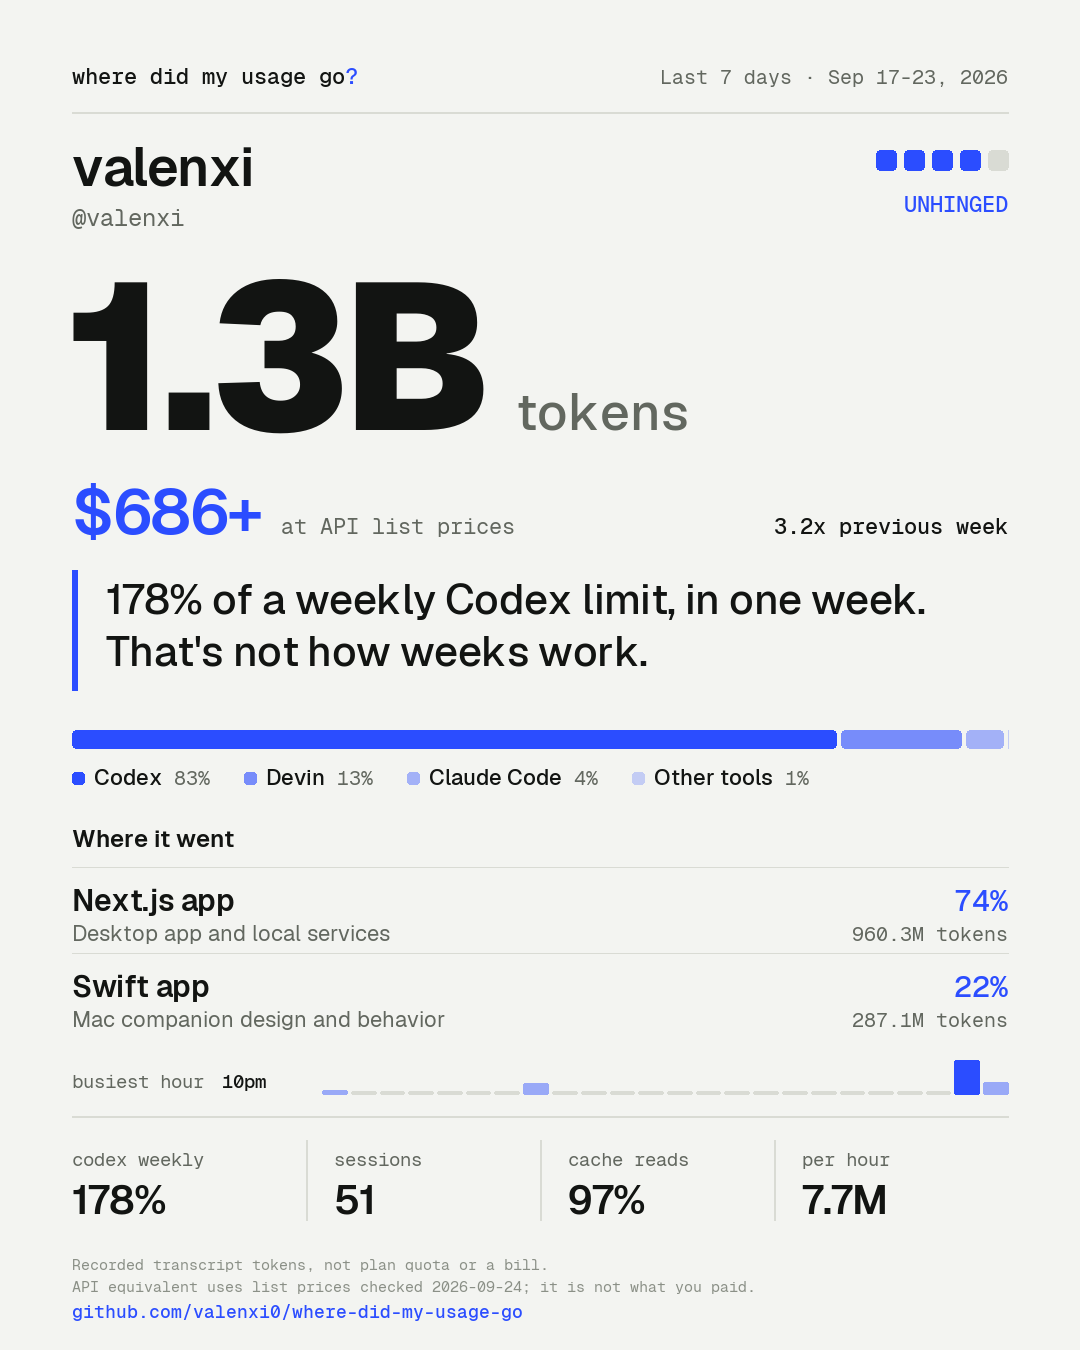
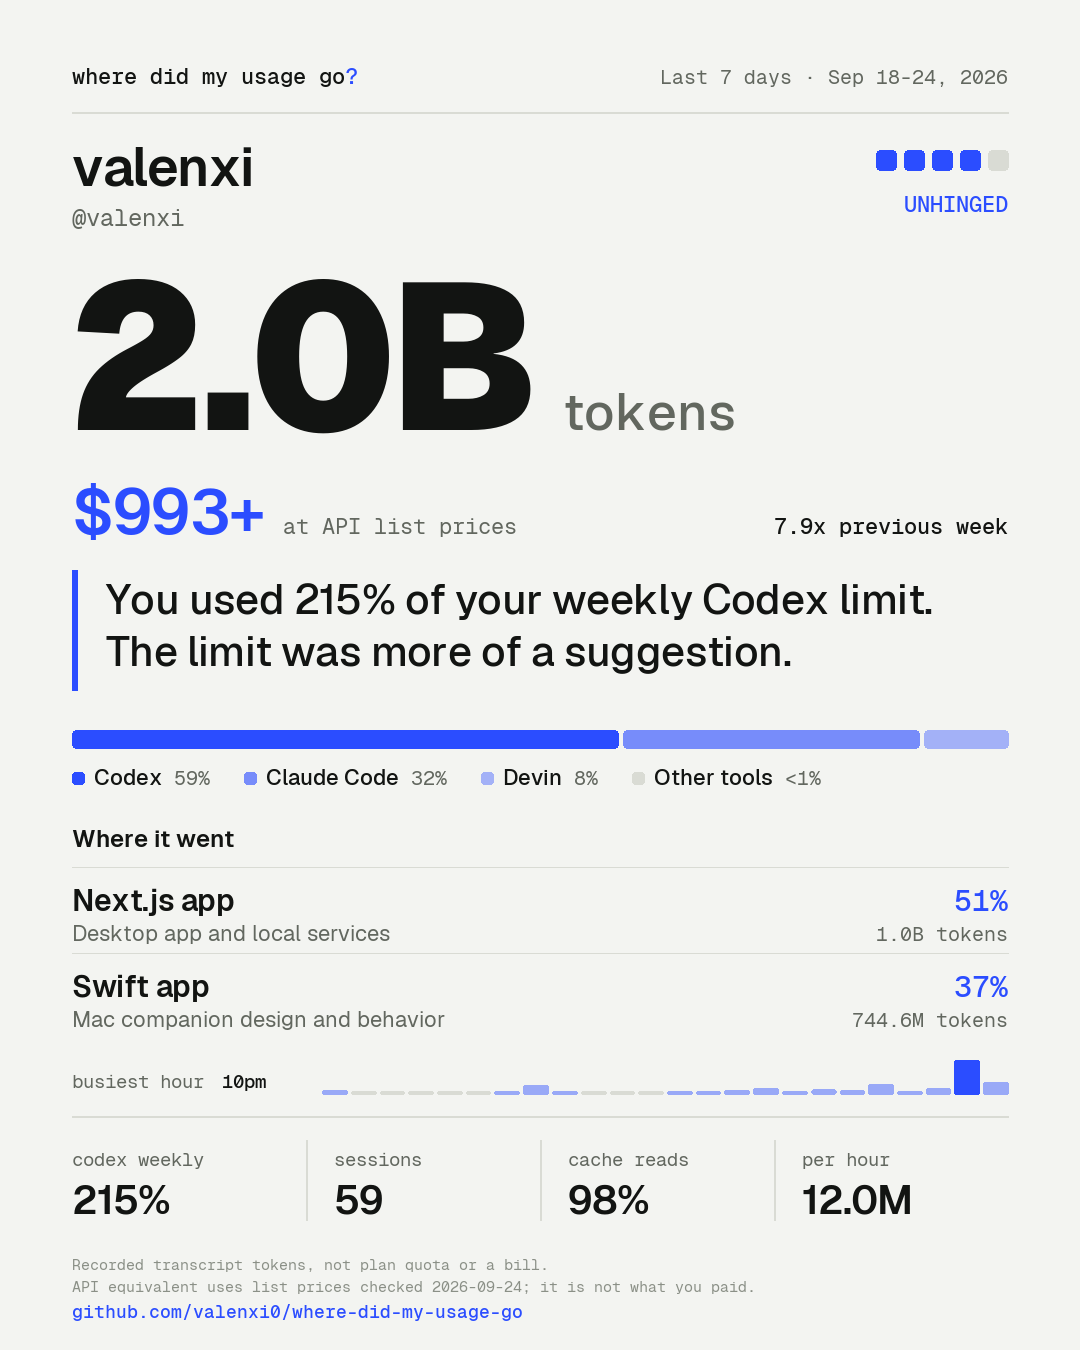
Refresh the showcase cards with the Sep 18-24 week and show <1% for tiny shares

diff --git a/skills/where-did-my-usage-go/scripts/card.py b/skills/where-did-my-usage-go/scripts/card.py
@@ -125,6 +125,13 @@ def _share(tokens, total):
     return round(tokens / total * 100) if isinstance(tokens, int) and total else None
 
 
+def share_text(share, tokens):
+    """`51%`, or `<1%` for real usage that rounds to zero."""
+    if share is None:
+        return None
+    return "<1%" if share == 0 and isinstance(tokens, int) and tokens > 0 else f"{share}%"
+
+
 def view(data, visibility):
     anonymous = visibility == "anonymous"
     hide_projects = visibility in ("anonymous", "private-projects")
@@ -148,6 +155,7 @@ def view(data, visibility):
             label, summary = item.get("name") or f"Project {index}", item.get("summary")
         project_rows.append({"label": label, "summary": summary or "", "tokens": item.get("tokens"),
                              "sessions": item.get("sessions"), "share": _share(item.get("tokens"), project_total)})
+        project_rows[-1]["share_text"] = share_text(project_rows[-1]["share"], item.get("tokens"))
 
     highlight = data.get("anonymous_highlight") if hide_projects else data.get("highlight")
     if not highlight:
@@ -173,7 +181,8 @@ def view(data, visibility):
         "per_hour": round(total / hours) if isinstance(total, int) and isinstance(hours, (int, float)) and hours > 0 else None,
         "sessions": sum(max(0, int(item.get("sessions") or 0)) for item in agents),
         "agents": [{"label": item.get("name") or "Unknown tool", "tokens": item.get("tokens"),
-                    "sessions": item.get("sessions"), "share": _share(item.get("tokens"), agent_total)}
+                    "sessions": item.get("sessions"), "share": _share(item.get("tokens"), agent_total),
+                    "share_text": share_text(_share(item.get("tokens"), agent_total), item.get("tokens"))}
                    for item in agents],
         "projects": project_rows,
         "highlight": highlight,

diff --git a/skills/where-did-my-usage-go/scripts/render_png.py b/skills/where-did-my-usage-go/scripts/render_png.py
@@ -162,7 +162,7 @@ def tools(draw, card, top):
     x = LEFT
     label_face, metric_face = font(22, "medium"), font(20, "mono")
     for index, row in enumerate(card["agents"][:4]):
-        metric = f"{row['share']}%" if row["share"] is not None else "no token data"
+        metric = row["share_text"] or "no token data"
         label = fit(draw, row["label"], label_face, 200)
         item_width = 22 + width(draw, label, label_face) + 12 + width(draw, metric, metric_face)
         if x + item_width > RIGHT:
@@ -180,7 +180,7 @@ def projects(draw, card, top, rows):
     y = top + 42
     for row in card["projects"][:rows]:
         draw.line((LEFT, y, RIGHT, y), fill=C["line"], width=1)
-        metric = f"{row['share']}%" if row["share"] is not None else "n/a"
+        metric = row["share_text"] or "n/a"
         metric_face = font(30, "mono-medium")
         text(draw, (RIGHT, y + 44), metric, metric_face, C["accent"] if row["share"] is not None else C["muted"], anchor="rs")
         name_face = font(30, "semibold")

diff --git a/skills/where-did-my-usage-go/scripts/styles.py b/skills/where-did-my-usage-go/scripts/styles.py
@@ -101,7 +101,7 @@ def terminal(data, visibility):
     R.text(draw, (x, y), "# tools", mono, dim)
     y += 42
     for row in card["agents"][:4]:
-        bar(y, row["label"], row["share"], f"{row['share']}%" if row["share"] is not None else "n/a")
+        bar(y, row["label"], row["share"], row["share_text"] or "n/a")
         y += 38
     y += 24
     R.text(draw, (x, y), "# projects", mono, dim)
@@ -248,7 +248,7 @@ def receipt(data, visibility):
         y += 32
         for row in card["projects"][:4]:
             columns(y, (row["label"], compact(row["tokens"]) if isinstance(row["tokens"], int) else "n/a",
-                        f"{row['share']}%" if row["share"] is not None else "--"))
+                        row["share_text"] or "--"))
             y += 30
         y += 4
         rule(y)

diff --git a/skills/where-did-my-usage-go/scripts/render.py b/skills/where-did-my-usage-go/scripts/render.py
@@ -16,7 +16,7 @@ def esc(value):
 def share_detail(row):
     if row["share"] is None:
         return "no token data"
-    return f"{compact(row['tokens'])} tokens · {row['share']}%"
+    return f"{compact(row['tokens'])} tokens · {row['share_text']}"
 
 
 def render(data, visibility, image=None):

diff --git a/README.md b/README.md
@@ -10,12 +10,12 @@ It's a joke with real numbers. Token counts come from your agents' own logs, and
 
 ## A real week
 
-This is [@valenxi](https://x.com/valenxi)'s week of Sep 17-23, 2026, in the three card styles:
+This is [@valenxi](https://x.com/valenxi)'s week of Sep 18-24, 2026, in the three card styles:
 
 <p>
-<img src="docs/cards/classic.png" width="260" alt="Classic card: 1.3B tokens, $686 at API list prices, 178% of a weekly Codex limit, Unhinged tier">
+<img src="docs/cards/classic.png" width="260" alt="Classic card: 2.0B tokens, $993 at API list prices, 215% of a weekly Codex limit, Unhinged tier">
 <img src="docs/cards/terminal.png" width="260" alt="Terminal card: the same week as command-line output with bar charts for tools, projects, and prompts by hour">
-<img src="docs/cards/receipt.png" width="260" alt="Receipt card: an itemized bill per tool and model, with projects, peak hours, and a $686 total">
+<img src="docs/cards/receipt.png" width="260" alt="Receipt card: an itemized bill per tool and model, with projects, peak hours, and a $993 total">
 </p>
 
 | Style | What it shows |
@@ -118,7 +118,7 @@ Windows end at the last local midnight, so every run on the same day gives the s
 
 - **Tokens** are input plus output from your local transcripts. They are not plan quota, a bill, or a measure of value. Cache reads count as input.
 - **At API list prices** is what the same tokens would cost on each provider's standard API today. A `+` means the price is a minimum, because some models have no public price or a log left out cache writes. It is not what you paid. The [pricing guide](skills/where-did-my-usage-go/references/api-pricing.md) has the details.
-- **Plan limit** (`codex weekly 178%`) is how much of Codex's own weekly limit you used during the window, added up across resets.
+- **Plan limit** (`codex weekly 215%`) is how much of Codex's own weekly limit you used during the window, added up across resets.
 - **Tier** is tokens per hour, averaged over at least one day. The tiers are Warm-up, Regular (100K an hour), Heavy (1M), Unhinged (6M), and Legendary (30M an hour, about 5B a week).
 - **vs previous week** compares your window with the one just before it, using only the agents the script reads by itself.
 - **Busiest** is when you sent prompts, by local hour and weekday. It shows when you were at the keyboard, not when the agents ran.
